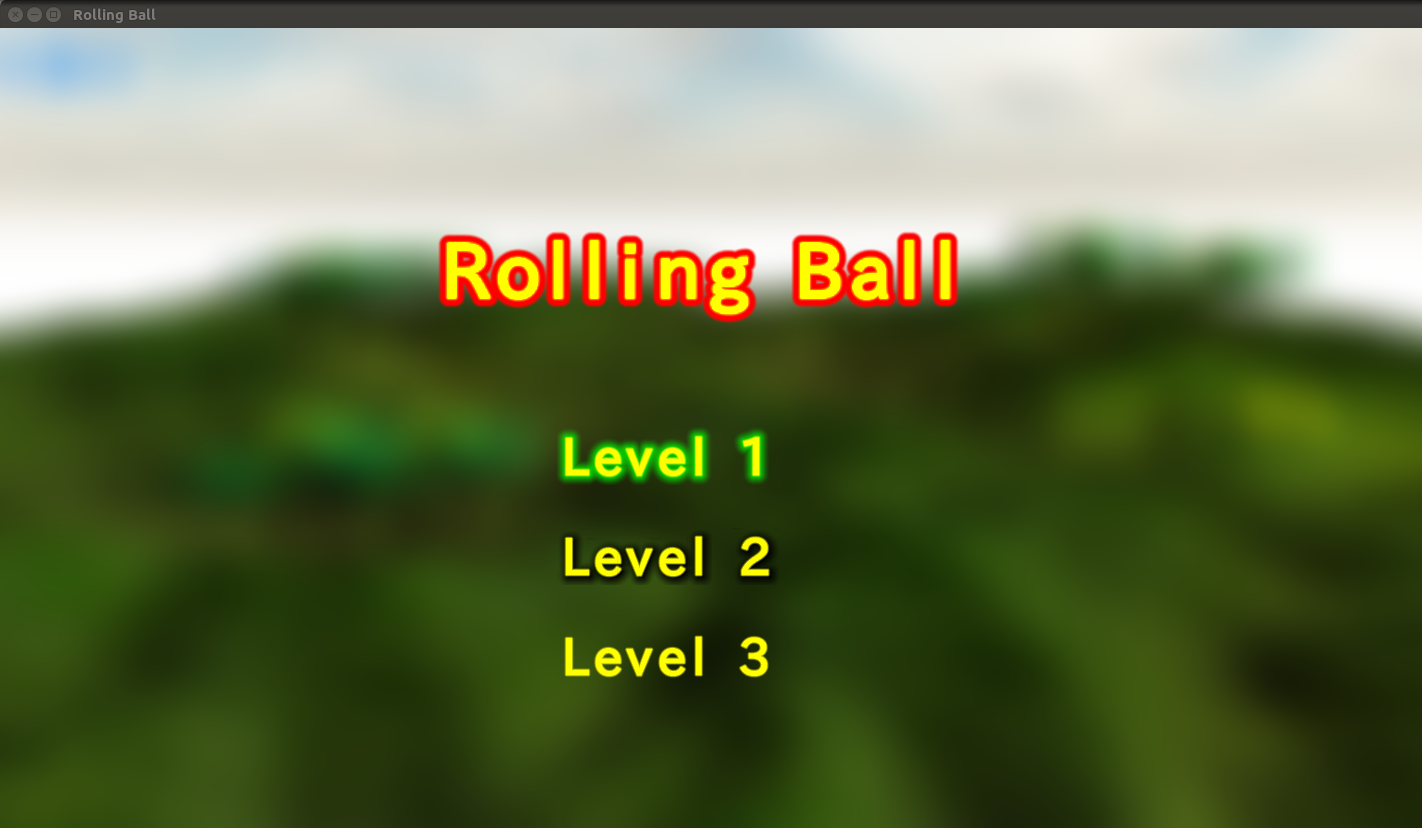
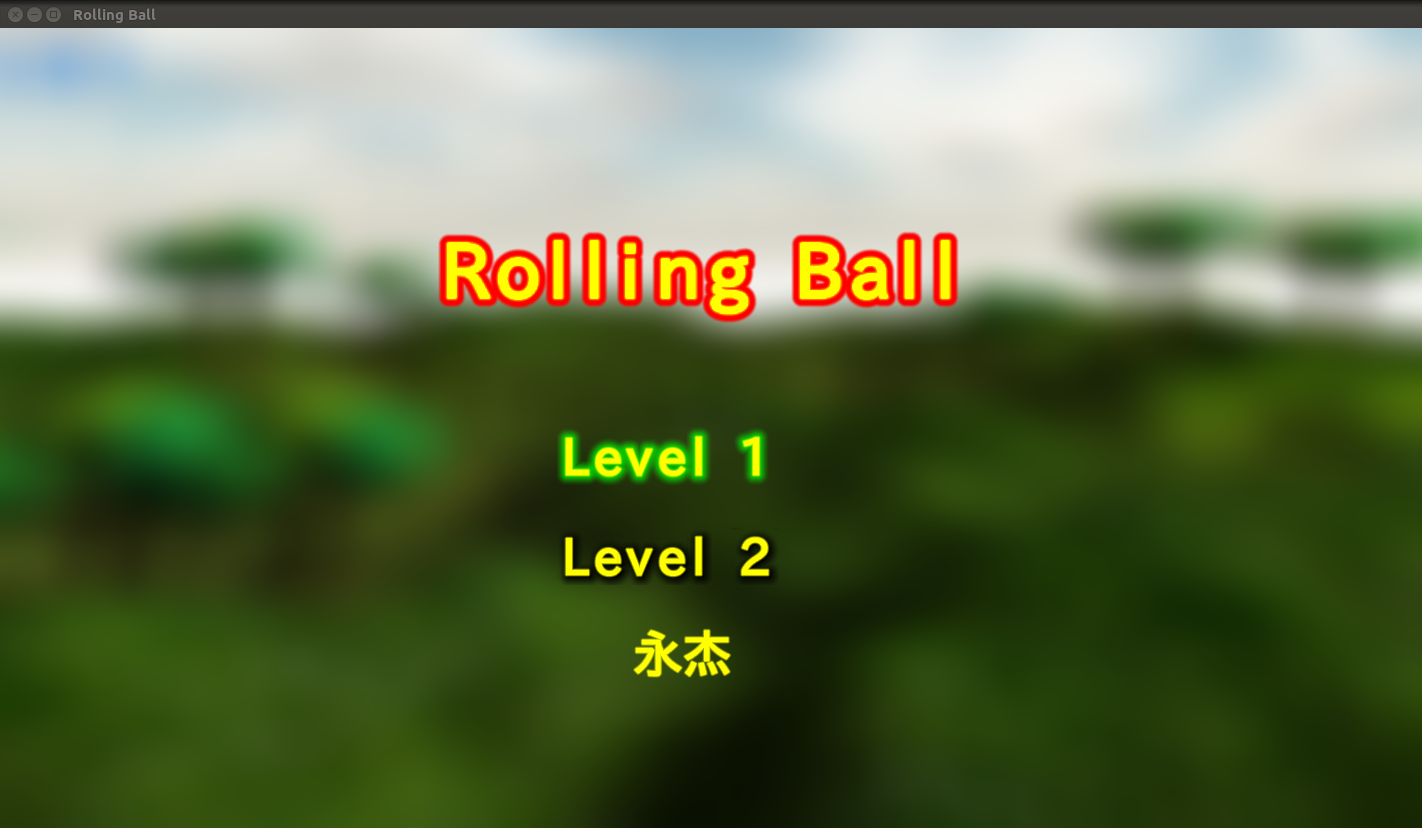
update readme

diff --git a/src/menu.cpp b/src/menu.cpp
@@ -52,8 +52,7 @@ void Menu::initMenuList()
 	TextPtr head(new Text(L"Rolling Ball", WIDTH, 200, 1.5f, TEXT_MODE_OUTLINE));
 	TextPtr line1(new Text(L"Level 1", WIDTH + 120, 400, 1.0f, TEXT_MODE_GLOW));
 	TextPtr line2(new Text(L"Level 2", WIDTH + 120, 500, 1.0f, TEXT_MODE_DROPSHADOW));
-	// TextPtr line3(new Text(L"Level 3", WIDTH + 120, 600, 1.0f, TEXT_MODE_NORMAL));
-	TextPtr line3(new Text(L"曹磊 永杰 浩楠", WIDTH + 60, 600, 1.0f, TEXT_MODE_NORMAL));
+	TextPtr line3(new Text(L"   永杰", WIDTH + 120, 600, 1.0f, TEXT_MODE_NORMAL));
 	// line3->setTextColor(255.0/255.0, 204.0/255.0, 255.0/255.0);
 
 	_menuTexts.push_back(head);

diff --git a/README.md b/README.md
@@ -16,7 +16,8 @@ A Simple 3D Rolling Ball Game
 #### Build :
 
 	./src/make
-	./bin/rollingBall
+	cd ./bin
+	./rollingBall  # must run in bin directory
 
 
 #### Features :
